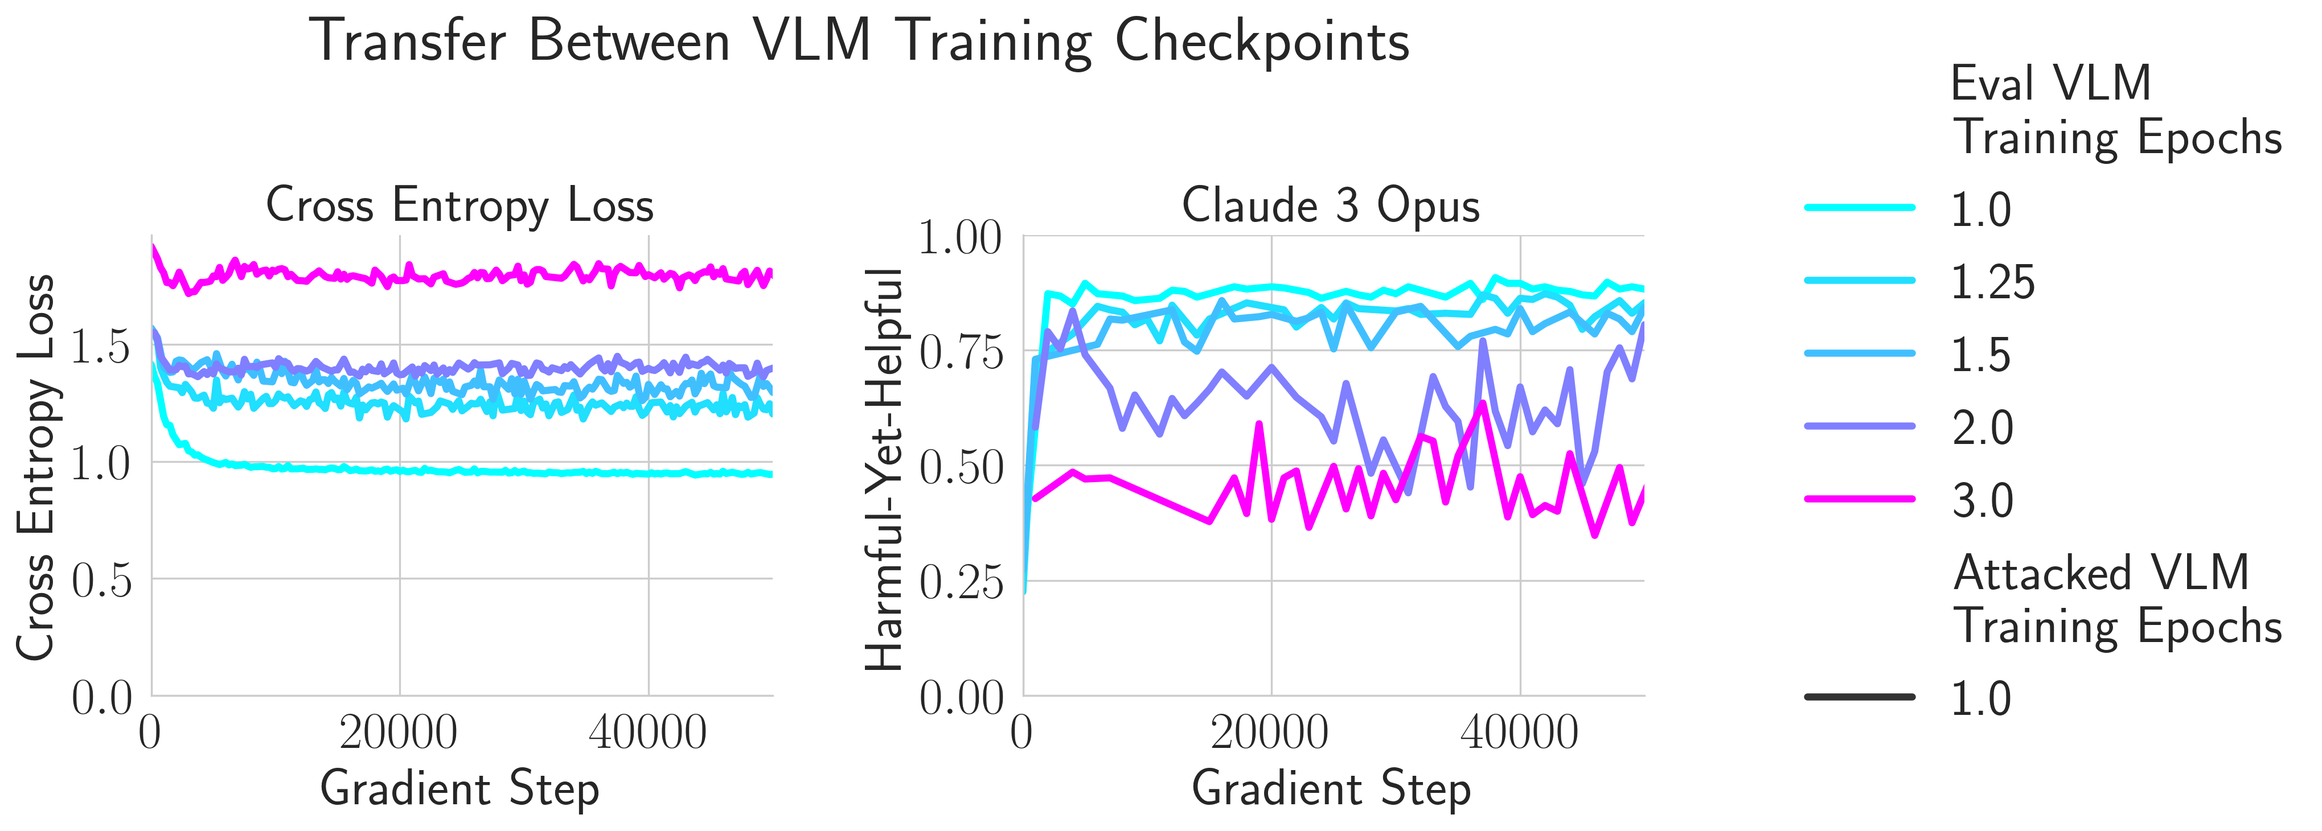
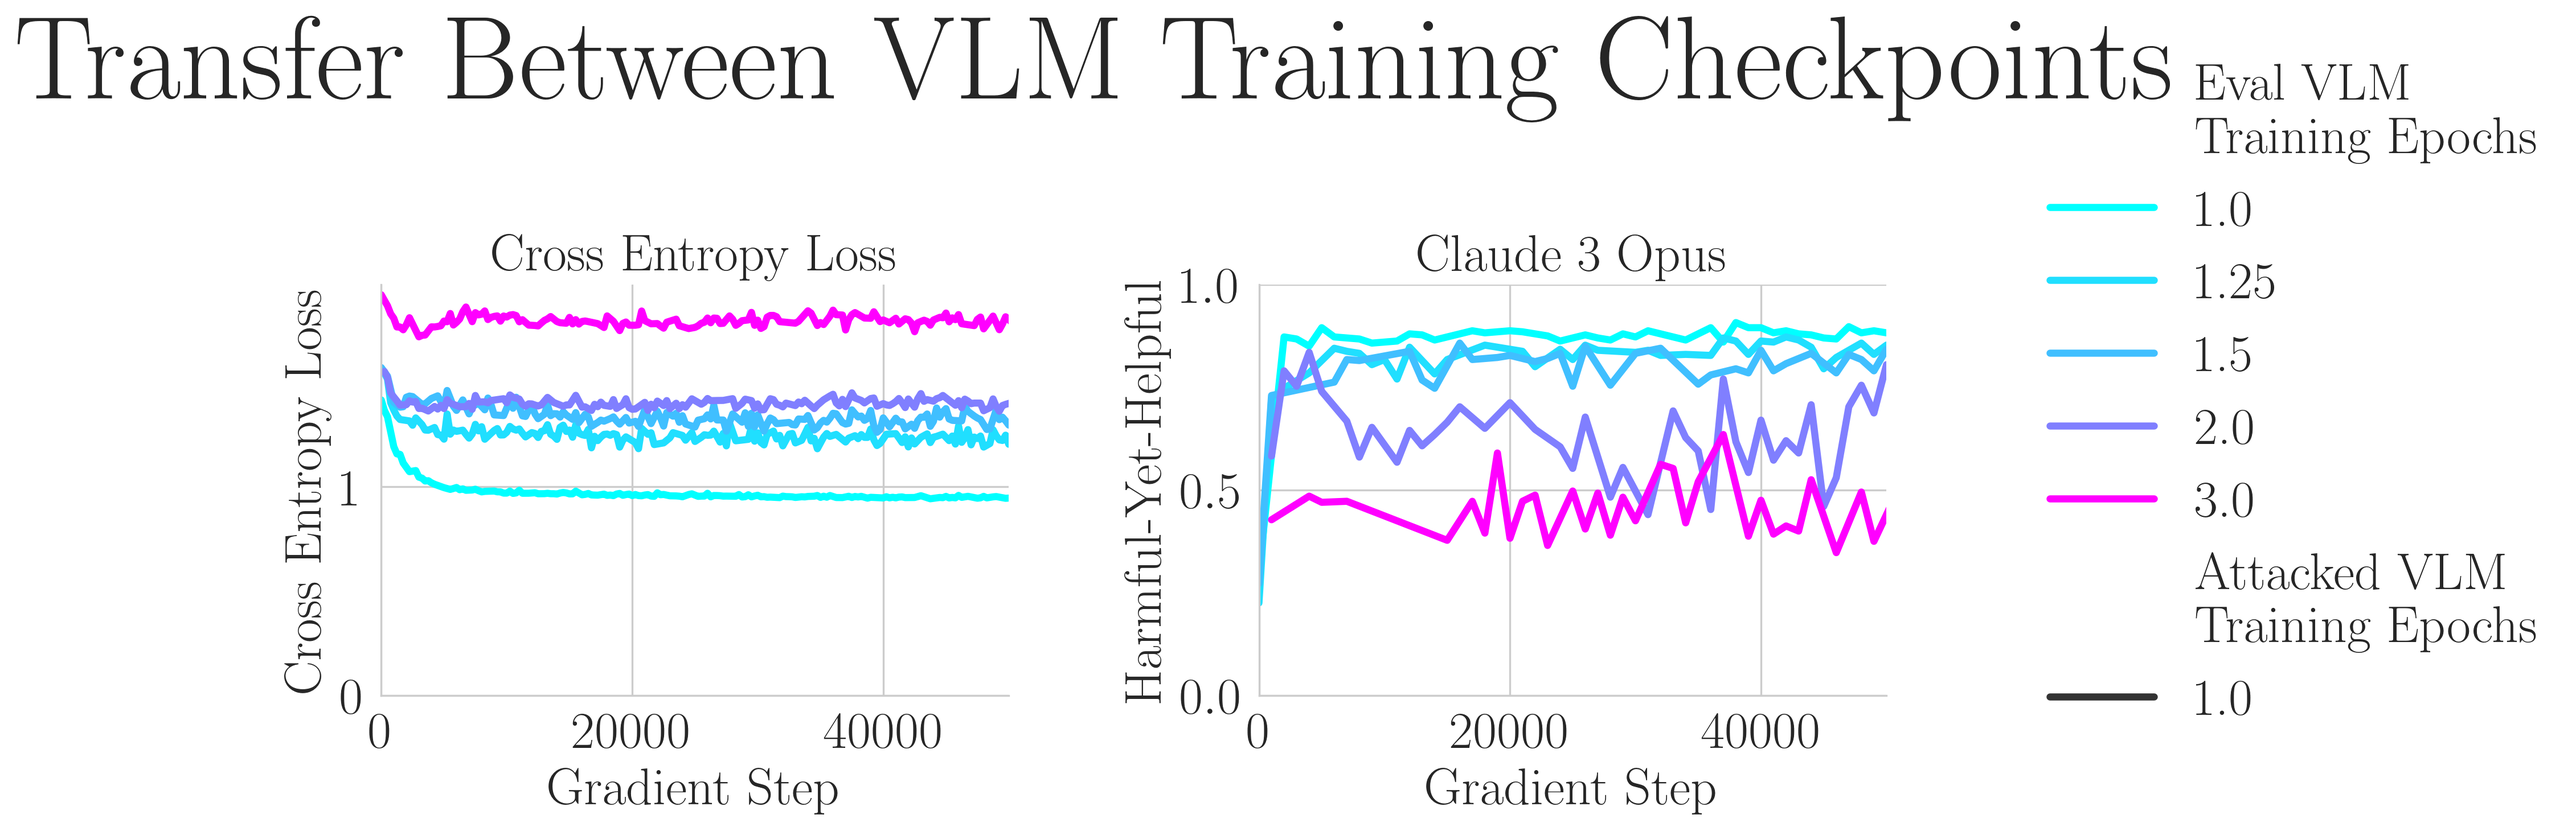
Fixed plotting inaccuracy

diff --git a/src/plot.py b/src/plot.py
@@ -6,17 +6,19 @@ import pandas as pd
 import seaborn as sns
 
 
+sns.set_style("whitegrid")
+
+
 # Enable LaTeX rendering.
 # https://stackoverflow.com/a/23856968
 # plt.rc('text', usetex=True)
-# plt.rc('text.latex', preamble=r'\usepackage{amsmath}\usepackage {foo - name}`...')
 plt.rcParams["text.usetex"] = True
-preamble_commands = [r"\usepackage{amsmath}"]  # Can add more commands to this list
-plt.rcParams["text.latex.preamble"] = "\n".join(preamble_commands)
+plt.rcParams["font.family"] = "serif"
+plt.rcParams["font.serif"] = "Computer Modern"
+# Can add more commands to this list
+plt.rcParams["text.latex.preamble"] = "\n".join([r"\usepackage{amsmath}"])
 # Increase font size.
-plt.rcParams.update({"font.size": 22})
-
-sns.set_style("whitegrid")
+plt.rcParams["font.size"] = 22
 
 
 def save_plot_with_multiple_extensions(plot_dir: str, plot_title: str):

diff --git a/notebooks/03_transfer_attack_prismatic_n=8/03_transfer_attack_prismatic_n=8.py b/notebooks/03_transfer_attack_prismatic_n=8/03_transfer_attack_prismatic_n=8.py
@@ -203,7 +203,7 @@ for eval_dataset in eval_runs_configs_df["eval_dataset"].unique():
             plt.ylabel(src.globals.METRICS_TO_LABELS_NICE_STRINGS_DICT[metric])
             sns.move_legend(g, "upper left", bbox_to_anchor=(1, 1))
             plt.title(
-                f"{src.globals.METRICS_TO_TITLE_STRINGS_DICT[metric]} Scores of Attacking Ensemble of $N=8$ VLMs",
+                f"{src.globals.METRICS_TO_TITLE_STRINGS_DICT[metric]} Scores of Attacking Ensemble of $N=8$  VLMs",
                 fontsize=50,
             )
             # Make space for the title.

diff --git a/notebooks/04_additional_vlm_epochs/04_additional_vlm_epochs.py b/notebooks/04_additional_vlm_epochs/04_additional_vlm_epochs.py
@@ -226,7 +226,7 @@ g = sns.relplot(
 )
 g.set(xlim=(0, 50000))
 g.set_axis_labels("Gradient Step")
-g.fig.suptitle("Transfer Between VLM Training Checkpoints", y=1.0)
+g.fig.suptitle("Transfer Between VLM Training Checkpoints", y=1.0, fontsize=50)
 g.set_titles(col_template="{col_name}")
 # Set the y-lim per axis
 for ax, key in zip(g.axes.flat, unique_metrics_order):
